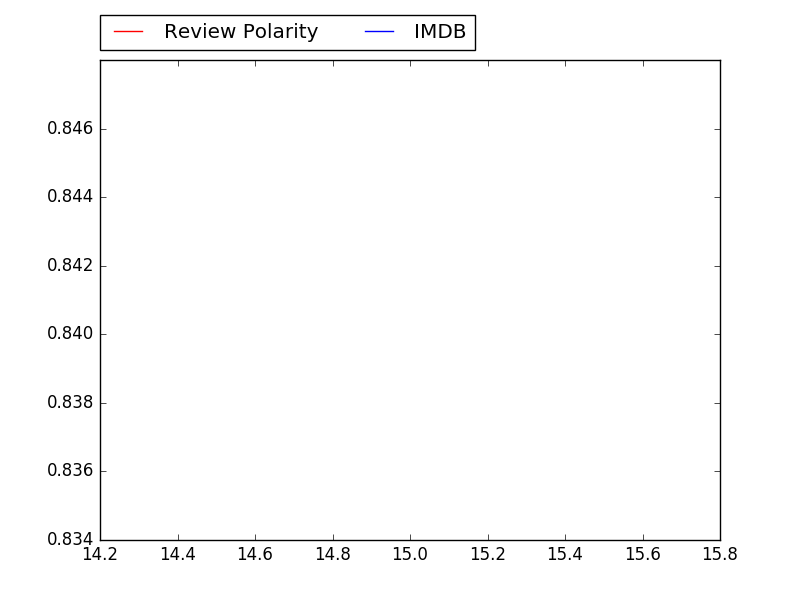
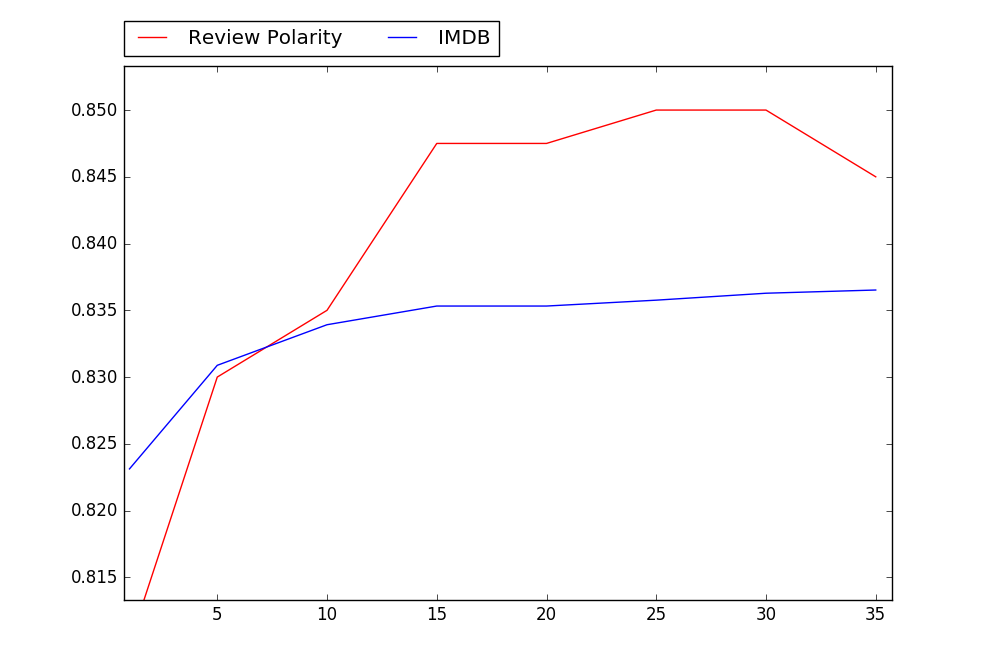
added graph

diff --git a/src/Main.py b/src/Main.py
@@ -93,9 +93,13 @@ def printTable(tokenizerName, alphas, reviewPolarityAccuracies, imdbAccuracies):
         print("| {0}  | {1}  | {2} |".format(alphas[i], reviewPolarityAccuracies[i], imdbAccuracies[i]))
     plotAccuracies(tokenizerName, alphas, reviewPolarityAccuracies, imdbAccuracies)
 
-alphas = [15]
+# alphas = [35]
+# tokenizer = SimpleTokenizer()
+# reviewPolarityAccuracies = evaluateReviewPolarity(K, tokenizer, alphas)
+# imdbAccuracies = evaluateIMDB(K, tokenizer, alphas)
 
-tokenizer = SimpleTokenizer()
-reviewPolarityAccuracies = evaluateReviewPolarity(K, tokenizer, alphas)
-imdbAccuracies = evaluateIMDB(K, tokenizer, alphas)
+alphas = [1, 5, 10, 15, 20, 25, 30, 35]
+reviewPolarityAccuracies = [0.81, 0.83, 0.835, 0.8475, 0.8475, 0.85, 0.85, 0.845]
+imdbAccuracies = [0.82312, 0.83088, 0.83392, 0.83532, 0.83532, 0.83576, 0.83628, 0.83652]
+
 printTable("Simple Tokenizer", alphas, reviewPolarityAccuracies, imdbAccuracies)

diff --git a/Results.md b/Results.md
@@ -2,12 +2,16 @@
 ## Naive Bayes Classifier
 
 ###Simple Tokenizer
-| Alpha  | Accuracy ||
-|   | Review Polarity | IMDB |
+| ALpha  | Review Polarity  Accuracy | IMDB Accuracy |
 |---|:---:|:---:|
 | 1  | 0.81  | 0.82312 |
 | 5  | 0.83  | 0.83088 |
 | 10  | 0.835  | 0.83392 |
 | 15  | 0.8475  | 0.83532 |
+| 20  | 0.8475  | 0.83532 |
+| 25  | 0.85  | 0.83576 |
+| 30  | 0.85  | 0.83628 |
+| 35  | 0.845  | 0.83652 |
+
 ![Simple Tokenizer Accuracy]
 (/results/Simple_Tokenizer_Accuracy.png)
